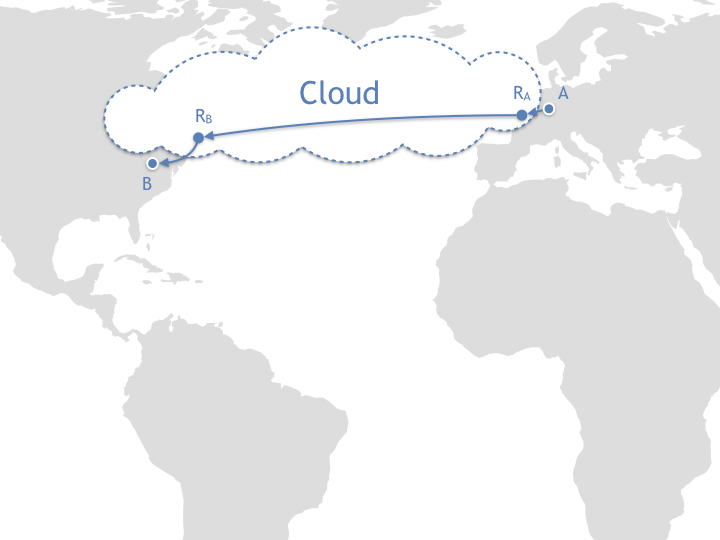
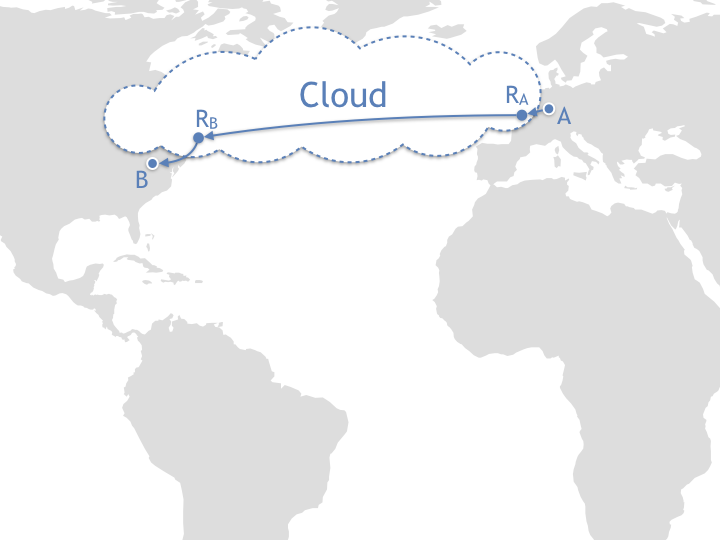
Updates from ShareLaTeX

diff --git a/main.tex b/main.tex
@@ -285,13 +285,13 @@ We present below a straw man proposal for OCD. We show that even the proposed na
   \centering
   \begin{subfigure}{.49\textwidth}
   \centering
-    \includegraphics[width=0.97\textwidth,clip=true, trim = 0 10 0 0]{figures/overlay-vs-e2e002.png}
+    \includegraphics[width=0.97\textwidth,clip=true, trim = 0 100mm 0 0]{figures/overlay-vs-e2e002.png}
     \caption{Default data transfer}
     \label{fig:e2e-traffic}
 \end{subfigure}
 \begin{subfigure}{.49\textwidth}
   \centering
-    \includegraphics[width=0.97\textwidth, clip, trim = 0 10 0 0]{figures/overlay-vs-e2e001.png}
+    \includegraphics[width=0.97\textwidth, clip, trim = 0 100mm 0 0]{figures/overlay-vs-e2e001.png}
     \caption{Traffic through the cloud}
     \label{fig:cloud-traffic}
 \end{subfigure}
